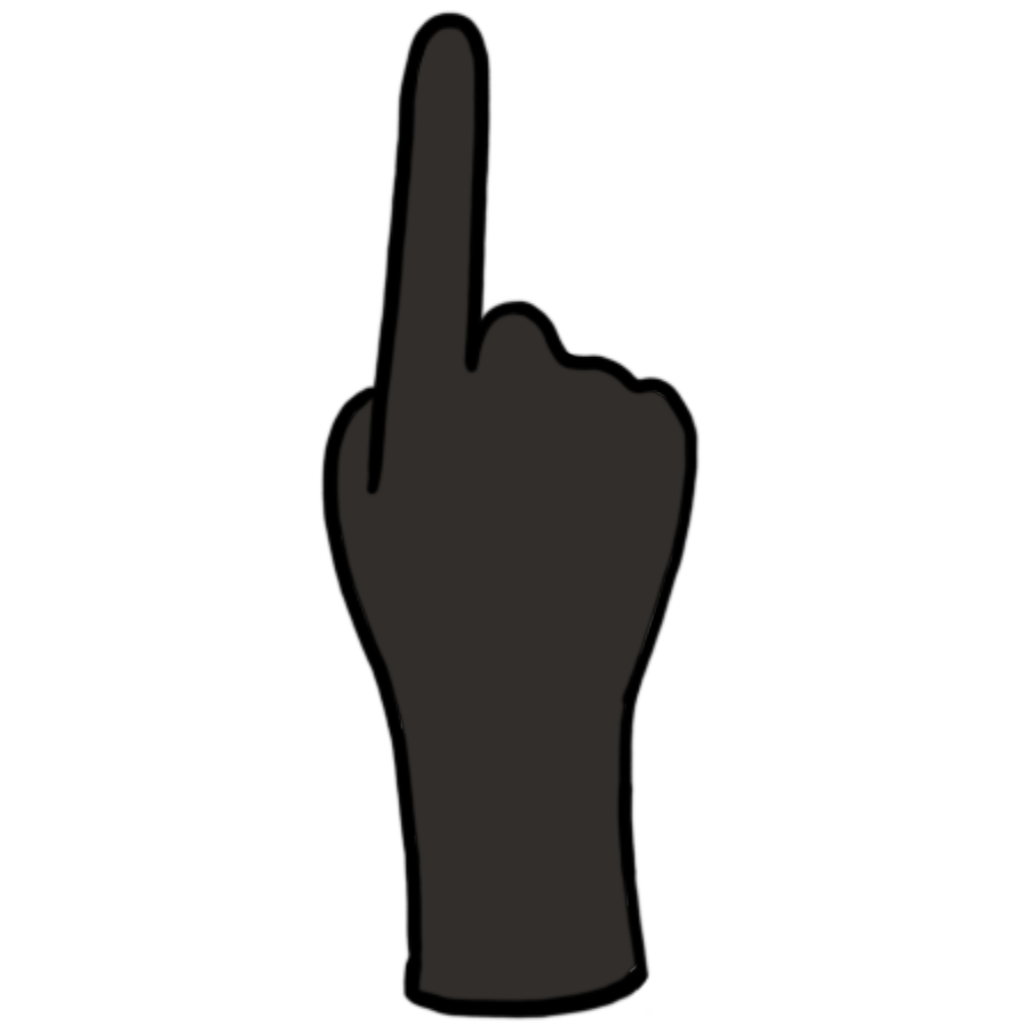
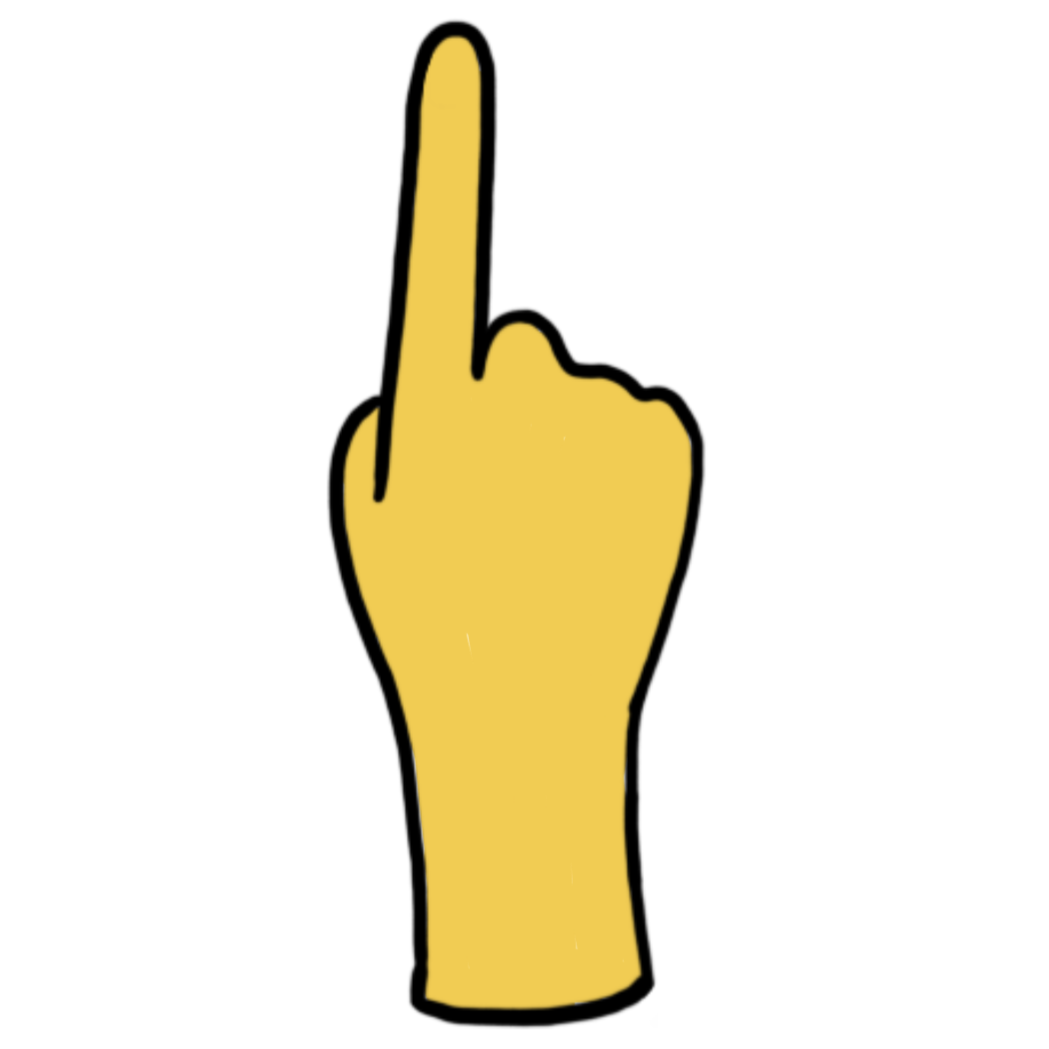
color yellow

Changed region(s): [[0.3125, 0.0, 0.6875, 1.0]]

diff --git a/src/assets/game-menu.css b/src/assets/game-menu.css
@@ -18,14 +18,14 @@
 }
 
 .game-button {
-  --text-color: #ffffff;
-  --button-color: #e47979;
-  --button-3d: #f9c4d2;
-  --button-border: #b18597;
+  --text-color: var(--bg-secondary);
+  --button-color: #f1cc53;
+  --button-3d:#ffe592;
+  --button-border: #ecc33d;
   --button-shadow: #0f0f0f36;
-  --button-hover: #d8a0a0;
-  --button-dropdown: #b49292;
-  --button-dropdown-hover: #dbb3b3;
+  --button-hover: #fed241;
+  --button-dropdown: #fed241;
+  --button-dropdown-hover: var(--bg-secondary);
   --button-inactive: #a2a3a2;
   --button-border-inactive: #585858;
   --button-height: 0.5rem;
@@ -109,7 +109,7 @@
 .game-dropdown-menu {
   display: flex;
   flex-direction: column;
-  color: rgb(224, 224, 224);
+  color: #f1cc53;;
 }
 
 .game-dropdown-component {
@@ -130,7 +130,7 @@
   margin-top: 5px;
   margin-bottom: 4px;
   background-color: var(--button-dropdown);
-  color: white;
+  color: #f1cc53;;
   width: 33%;
   height: 50px;
   border-radius: 10px;

diff --git a/src/assets/navbar.css b/src/assets/navbar.css
@@ -152,7 +152,7 @@
   bottom: 0;
   left: 0;
   right: 0;
-  background: rgba(254, 126, 126, 0.7);
+  background: rgba(241, 204, 83, 0.7);
   transition: all 0.4s;
   visibility: hidden;
   opacity: 0;
@@ -174,7 +174,7 @@
   position: absolute;
   top: 0;
   right: 15px;
-  color: #fe0606;
+  color: #f1cc53;
   text-decoration: none;
   font-size: 30px;
 }

diff --git a/src/assets/main.css b/src/assets/main.css
@@ -10,10 +10,10 @@
   --bg-primary: #312e2b;
   --bg-secondary: #272522;
   --bg-secondary-highlight: #3a3936;
-  --background-board: #e47979;
+  --background-board: #f1cc53;
   --border-board: #ffffffcb;
   --transition-speed: 200ms;
-  --color-primary: #e47979;
+  --color-primary: rgb(241, 204, 83);
 
   --navbar-size: 4rem;
   --max-breakpoint: 768px;

diff --git a/src/components/OptionsMenu/OptionsMenu.vue b/src/components/OptionsMenu/OptionsMenu.vue
@@ -82,7 +82,7 @@ export default {
     </nav>
     <div id="popup-box" class="modal">
         <div class="content">
-            <h1 style="color: #e47979;">
+            <h1 style="color: #f1cc53;;">
                 Rules of Chopsticks
             </h1>
             <b>

diff --git a/src/assets/profile.css b/src/assets/profile.css
@@ -46,7 +46,7 @@
 
 .my_file:hover{
     opacity: 1;
-    background: #b86666;
+    background: #9e873e;;
 }
 
 .profile-bio{
